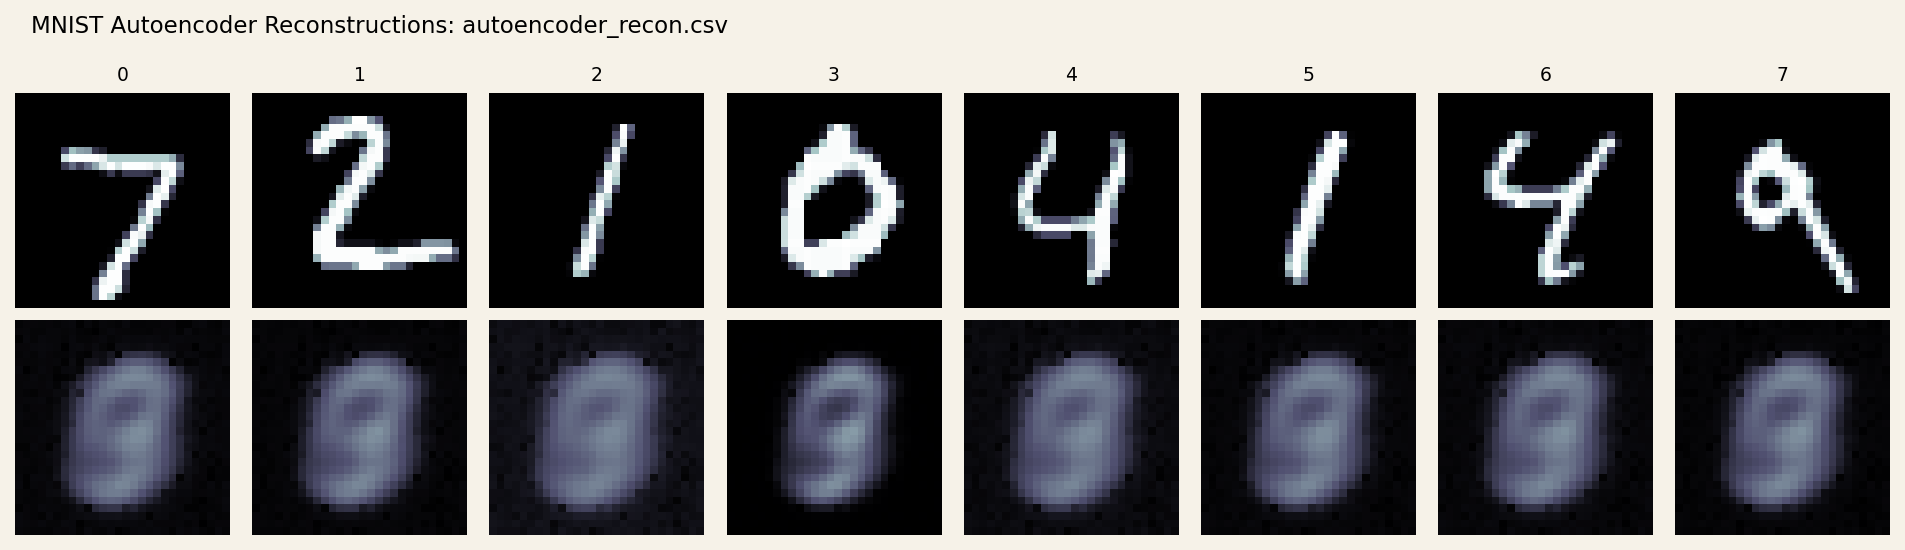
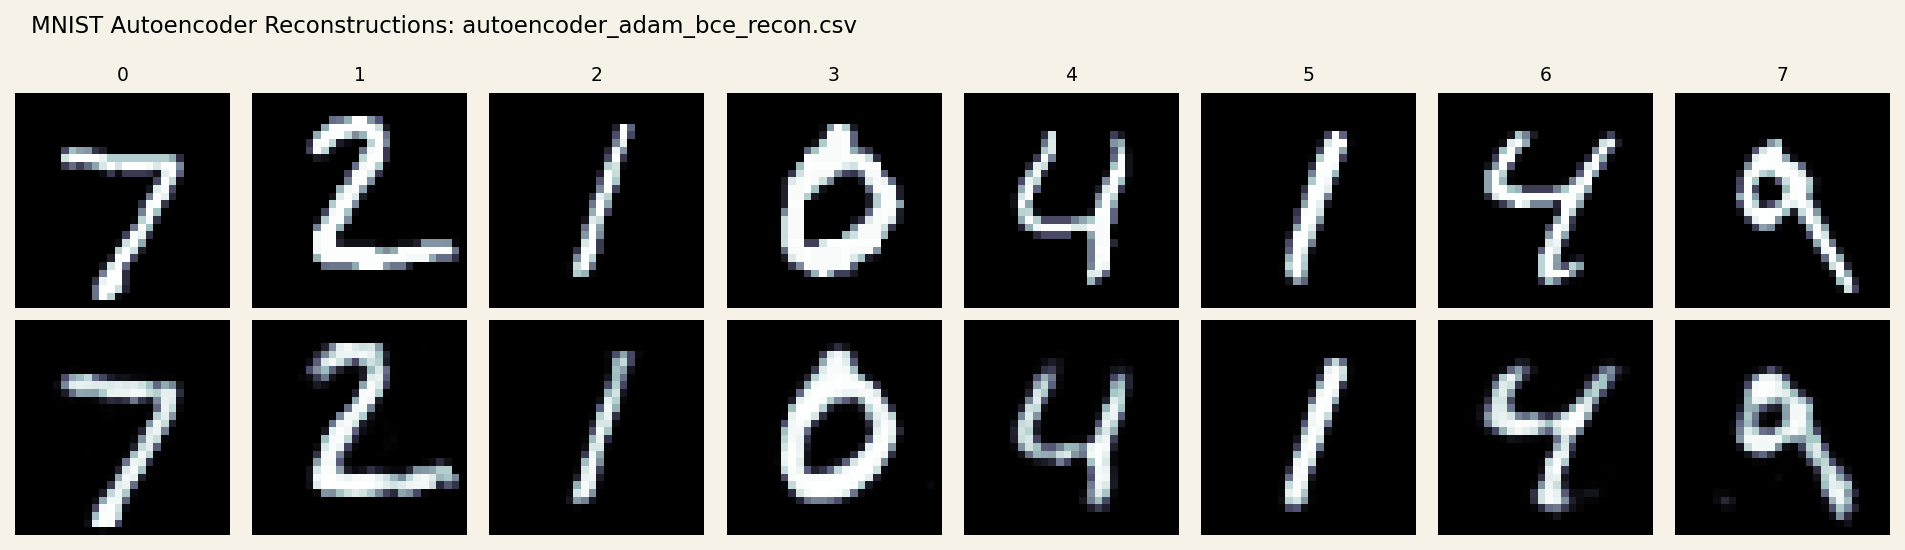
binary_cross_entropy: autoencoder --opt=adam --loss=bce

diff --git a/autoencoder.c b/autoencoder.c
@@ -8,17 +8,28 @@
  * - Flattens each 28x28 digit into a 784-wide input vector
  * - Encodes through a hidden layer and low-dimensional latent bottleneck
  * - Decodes back to pixel space with a sigmoid reconstruction head
- * - Trains with mean-squared reconstruction loss
+ * - Trains with MSE or BCE-style reconstruction loss
  *
  * Usage:
  *   ./autoencoder [--epochs=N] [--batch=N] [--hidden=N]
- *                 [--latent=N] [--lr=FLOAT] [--log=PATH]
+ *                 [--latent=N] [--opt=momentum|adam]
+ *                 [--loss=mse|bce] [--lr=FLOAT] [--log=PATH]
  *                 [--recon=PATH]
  */
 #include <sys/time.h>
 #include <stdio.h>
 #include <stdlib.h>
 #include <string.h>
+
+typedef enum {
+    OPT_MOMENTUM = 0,
+    OPT_ADAM
+} OptimizerKind;
+
+typedef enum {
+    LOSS_MSE = 0,
+    LOSS_BCE
+} AutoencoderLossKind;
 
 /* Architecture:
  * input [batch, 784]
@@ -42,6 +53,9 @@ typedef struct {
     Tensor *b_out;
     Tensor *params[8];
     Tensor *velocity[8];
+    Tensor *adam_m1[8];
+    Tensor *adam_m2[8];
+    int adam_step;
     Tensor *tmp_enc1_lin;
     Tensor *tmp_enc1_bias;
     Tensor *tmp_enc1_act;
@@ -61,6 +75,8 @@ typedef struct {
     int batch;
     int hidden;
     int latent;
+    OptimizerKind opt_kind;
+    AutoencoderLossKind loss_kind;
     float lr;
     const char *log_path;
     const char *recon_path;
@@ -74,12 +90,31 @@ static float autoencoder_train_epoch(MnistAutoencoder *model,
                                      const MnistSet *train,
                                      const int *indices,
                                      float *batch_images,
-                                     float lr);
-static float autoencoder_eval(MnistAutoencoder *model, const MnistSet *ds, float *batch_images);
+                                     const AutoencoderOptions *opt);
+static float autoencoder_eval(MnistAutoencoder *model,
+                              const MnistSet *ds,
+                              float *batch_images,
+                              AutoencoderLossKind loss_kind);
 static void autoencoder_save_reconstructions(MnistAutoencoder *model,
                                              const MnistSet *ds,
                                              const char *path,
                                              int n_examples);
+
+static const char *optimizer_name(OptimizerKind kind) {
+    switch (kind) {
+        case OPT_MOMENTUM: return "momentum";
+        case OPT_ADAM: return "adam";
+    }
+    return "unknown";
+}
+
+static const char *loss_name(AutoencoderLossKind kind) {
+    switch (kind) {
+        case LOSS_MSE: return "mse";
+        case LOSS_BCE: return "bce";
+    }
+    return "unknown";
+}
 
 static void die(const char *msg) {
     fprintf(stderr, "%s\n", msg);
@@ -100,6 +135,8 @@ static void print_usage(const char *prog) {
     printf("  --batch=N\n");
     printf("  --hidden=N\n");
     printf("  --latent=N\n");
+    printf("  --opt=momentum|adam\n");
+    printf("  --loss=mse|bce\n");
     printf("  --lr=FLOAT\n");
     printf("  --log=PATH\n");
     printf("  --recon=PATH\n");
@@ -110,6 +147,8 @@ static void parse_args(int argc, char **argv, AutoencoderOptions *opt) {
     opt->batch = 32;
     opt->hidden = 128;
     opt->latent = 32;
+    opt->opt_kind = OPT_MOMENTUM;
+    opt->loss_kind = LOSS_MSE;
     opt->lr = 0.01f;
     opt->log_path = "out/autoencoder_training_log.csv";
     opt->recon_path = "out/autoencoder_recon.csv";
@@ -128,6 +167,18 @@ static void parse_args(int argc, char **argv, AutoencoderOptions *opt) {
             continue;
         } else if (sscanf(arg, "--latent=%d", &opt->latent) == 1) {
             continue;
+        } else if (strcmp(arg, "--opt=momentum") == 0) {
+            opt->opt_kind = OPT_MOMENTUM;
+            continue;
+        } else if (strcmp(arg, "--opt=adam") == 0) {
+            opt->opt_kind = OPT_ADAM;
+            continue;
+        } else if (strcmp(arg, "--loss=mse") == 0) {
+            opt->loss_kind = LOSS_MSE;
+            continue;
+        } else if (strcmp(arg, "--loss=bce") == 0) {
+            opt->loss_kind = LOSS_BCE;
+            continue;
         } else if (sscanf(arg, "--lr=%f", &opt->lr) == 1) {
             continue;
         } else if (strncmp(arg, "--log=", 6) == 0) {
@@ -144,7 +195,6 @@ static void print_architecture_summary(FILE *out, const MnistAutoencoder *model)
     fprintf(out, "arch: input=784 hidden=%d latent=%d\n", model->hidden, model->latent);
     fprintf(out, "arch: encoder=784->%d->%d relu\n", model->hidden, model->latent);
     fprintf(out, "arch: decoder=%d->%d->784 relu+sigmoid\n", model->latent, model->hidden);
-    fprintf(out, "arch: loss=mse over pixel reconstructions\n");
 }
 
 static void autoencoder_clear_forward_cache(MnistAutoencoder *model) {
@@ -217,10 +267,10 @@ static void autoencoder_init(MnistAutoencoder *model, const AutoencoderOptions *
 
     for (int i = 0; i < 8; i++) {
         model->velocity[i] = tensor_create(model->params[i]->rows, model->params[i]->cols, 0);
-        if (!model->velocity[i]) {
-            die("autoencoder velocity allocation failed");
-        }
+        model->adam_m1[i] = tensor_create(model->params[i]->rows, model->params[i]->cols, 0);
+        model->adam_m2[i] = tensor_create(model->params[i]->rows, model->params[i]->cols, 0);
     }
+    model->adam_step = 0;
 }
 
 static void autoencoder_free(MnistAutoencoder *model) {
@@ -231,8 +281,17 @@ static void autoencoder_free(MnistAutoencoder *model) {
     for (int i = 0; i < 8; i++) {
         tensor_free(model->params[i]);
         tensor_free(model->velocity[i]);
+        tensor_free(model->adam_m1[i]);
+        tensor_free(model->adam_m2[i]);
     }
     memset(model, 0, sizeof(*model));
+}
+
+static Tensor *autoencoder_recon_loss(Tensor *recon, Tensor *target, AutoencoderLossKind loss_kind) {
+    if (loss_kind == LOSS_BCE) {
+        return tensor_binary_cross_entropy(recon, target);
+    }
+    return tensor_mse_loss(recon, target);
 }
 
 static Tensor *autoencoder_forward(MnistAutoencoder *model, Tensor *x) {
@@ -255,7 +314,7 @@ static float autoencoder_train_epoch(MnistAutoencoder *model,
                                      const MnistSet *train,
                                      const int *indices,
                                      float *batch_images,
-                                     float lr) {
+                                     const AutoencoderOptions *opt) {
     int n_train = (train->n / model->batch) * model->batch;
     float loss_sum = 0.0f;
     int loss_count = 0;
@@ -268,10 +327,20 @@ static float autoencoder_train_epoch(MnistAutoencoder *model,
         mnist_gather_batch_images(train, indices, i, model->batch, batch_images);
         x = tensor_from_array(model->batch, MNIST_PIXELS, batch_images, 0);
         recon = autoencoder_forward(model, x);
-        loss = tensor_mse_loss(recon, x);
+        loss = autoencoder_recon_loss(recon, x, opt->loss_kind);
 
         tensor_backward(loss);
-        tensor_sgd_momentum_step(model->params, model->velocity, 8, lr, 0.9f);
+        if (opt->opt_kind == OPT_ADAM) {
+            TensorAdamOptions adam = {0};
+            adam.lr = opt->lr;
+            adam.beta1 = 0.9f;
+            adam.beta2 = 0.999f;
+            adam.eps = 1e-8f;
+            adam.timestep = ++model->adam_step;
+            tensor_adam_step(model->params, model->adam_m1, model->adam_m2, 8, &adam);
+        } else {
+            tensor_sgd_momentum_step(model->params, model->velocity, 8, opt->lr, 0.9f);
+        }
 
         loss_sum += loss->data[0];
         loss_count++;
@@ -284,7 +353,10 @@ static float autoencoder_train_epoch(MnistAutoencoder *model,
     return loss_count > 0 ? loss_sum / (float)loss_count : 0.0f;
 }
 
-static float autoencoder_eval(MnistAutoencoder *model, const MnistSet *ds, float *batch_images) {
+static float autoencoder_eval(MnistAutoencoder *model,
+                              const MnistSet *ds,
+                              float *batch_images,
+                              AutoencoderLossKind loss_kind) {
     int n_eval = (ds->n / model->batch) * model->batch;
     float loss_sum = 0.0f;
     int loss_count = 0;
@@ -299,7 +371,7 @@ static float autoencoder_eval(MnistAutoencoder *model, const MnistSet *ds, float
                sizeof(float) * (size_t)model->batch * MNIST_PIXELS);
         x = tensor_from_array(model->batch, MNIST_PIXELS, batch_images, 0);
         recon = autoencoder_forward(model, x);
-        loss = tensor_mse_loss(recon, x);
+        loss = autoencoder_recon_loss(recon, x, loss_kind);
 
         loss_sum += loss->data[0];
         loss_count++;
@@ -398,7 +470,12 @@ int main(int argc, char **argv) {
 
     printf("loaded MNIST train=%d test=%d batch=%d\n", train.n, test.n, opt.batch);
     print_architecture_summary(stdout, &model);
-    printf("opt: epochs=%d lr=%.4f recon=%s\n", opt.epochs, opt.lr, opt.recon_path);
+    printf("opt: epochs=%d lr=%.4f opt=%s loss=%s recon=%s\n",
+           opt.epochs,
+           opt.lr,
+           optimizer_name(opt.opt_kind),
+           loss_name(opt.loss_kind),
+           opt.recon_path);
 
     logf = fopen(opt.log_path, "w");
     if (!logf) {
@@ -413,8 +490,8 @@ int main(int argc, char **argv) {
         double elapsed;
 
         mnist_shuffle_indices(indices, train.n, &seed);
-        train_loss = autoencoder_train_epoch(&model, &train, indices, batch_images, opt.lr);
-        eval_loss = autoencoder_eval(&model, &test, batch_images);
+        train_loss = autoencoder_train_epoch(&model, &train, indices, batch_images, &opt);
+        eval_loss = autoencoder_eval(&model, &test, batch_images, opt.loss_kind);
         elapsed = now_seconds() - start_time;
 
         printf("epoch %3d train_loss %.6f eval_loss %.6f elapsed %.1fs\n",

diff --git a/tensor.c b/tensor.c
@@ -32,6 +32,7 @@ enum {
     OP_SOFTMAX,
     OP_LAYERNORM,
     OP_MSE,
+    OP_BINARY_CROSS_ENTROPY,
     OP_CROSS_ENTROPY
 };
 
@@ -1408,6 +1409,57 @@ static void backward_cross_entropy(Tensor *out) {
             target->grad[i] += g * (-logf(p));
         }
     }
+}
+
+static void backward_binary_cross_entropy(Tensor *out) {
+    const float eps = 1e-6f;
+    Tensor *pred = out->parents[0];
+    Tensor *target = out->parents[1];
+    int n = tensor_numel(pred);
+    float g = out->grad[0] / (float)n;
+
+    if (pred->requires_grad) {
+        ensure_grad(pred);
+        for (int i = 0; i < n; i++) {
+            float p = pred->data[i];
+            if (p < eps) p = eps;
+            if (p > 1.0f - eps) p = 1.0f - eps;
+            pred->grad[i] += g * ((1.0f - target->data[i]) / (1.0f - p) - target->data[i] / p);
+        }
+    }
+    if (target->requires_grad) {
+        ensure_grad(target);
+        for (int i = 0; i < n; i++) {
+            float p = pred->data[i];
+            if (p < eps) p = eps;
+            if (p > 1.0f - eps) p = 1.0f - eps;
+            target->grad[i] += g * (logf(1.0f - p) - logf(p));
+        }
+    }
+}
+
+Tensor *tensor_binary_cross_entropy(Tensor *pred_probs, Tensor *target_probs) {
+    const float eps = 1e-6f;
+    int n;
+    float acc = 0.0f;
+    Tensor *parents[2] = {pred_probs, target_probs};
+    int req;
+    Tensor *out;
+
+    ensure_same_shape(pred_probs, target_probs, "tensor_binary_cross_entropy: shape mismatch");
+    req = infer_requires_grad(parents, 2);
+    out = tensor_new_op(1, 1, req, OP_BINARY_CROSS_ENTROPY, parents, 2, backward_binary_cross_entropy);
+
+    n = tensor_numel(pred_probs);
+    for (int i = 0; i < n; i++) {
+        float p = pred_probs->data[i];
+        float y = target_probs->data[i];
+        if (p < eps) p = eps;
+        if (p > 1.0f - eps) p = 1.0f - eps;
+        acc += -(y * logf(p) + (1.0f - y) * logf(1.0f - p));
+    }
+    out->data[0] = acc / (float)n;
+    return out;
 }
 
 Tensor *tensor_cross_entropy(Tensor *pred_probs, Tensor *target_probs) {

diff --git a/tensor_test.c b/tensor_test.c
@@ -324,6 +324,25 @@ static int test_softmax_cross_entropy(void) {
     return 0;
 }
 
+static int test_binary_cross_entropy(void) {
+    float pv[] = {0.8f, 0.2f};
+    float tv[] = {1.0f, 0.0f};
+    Tensor *pred = tensor_from_array(1, 2, pv, 1);
+    Tensor *target = tensor_from_array(1, 2, tv, 0);
+    Tensor *loss = tensor_binary_cross_entropy(pred, target);
+
+    tensor_backward(loss);
+
+    ASSERT_CLOSE(loss->data[0], (-(logf(0.8f) + logf(0.8f))) / 2.0f, 1e-6f);
+    ASSERT_CLOSE(pred->grad[0], -0.625f, 1e-5f);
+    ASSERT_CLOSE(pred->grad[1], 0.625f, 1e-5f);
+
+    tensor_free(pred);
+    tensor_free(target);
+    tensor_free(loss);
+    return 0;
+}
+
 static int test_pow_sqrt(void) {
     float xv[] = {2.0f};
     float tv[] = {0.0f};
@@ -580,6 +599,7 @@ int main(void) {
     if (test_pow_sqrt() != 0) return 1;
     if (test_layernorm() != 0) return 1;
     if (test_softmax_cross_entropy() != 0) return 1;
+    if (test_binary_cross_entropy() != 0) return 1;
     if (test_cmp_ops() != 0) return 1;
     if (test_backward_mse_matmul() != 0) return 1;
     if (test_adam_step() != 0) return 1;

diff --git a/tensor.h b/tensor.h
@@ -86,6 +86,12 @@ Tensor *tensor_softmax(Tensor *x);
 Tensor *tensor_layernorm(Tensor *x, Tensor *gamma, Tensor *beta, float eps);
 
 Tensor *tensor_mse_loss(Tensor *pred, Tensor *target);
+/* Binary cross-entropy over probability inputs in [0, 1].
+ * References:
+ * - https://docs.pytorch.org/docs/stable/generated/torch.nn.BCELoss.html
+ * - https://docs.pytorch.org/docs/stable/generated/torch.nn.functional.binary_cross_entropy.html
+ */
+Tensor *tensor_binary_cross_entropy(Tensor *pred_probs, Tensor *target_probs);
 Tensor *tensor_cross_entropy(Tensor *pred_probs, Tensor *target_probs);
 
 Tensor *tensor_forward(Tensor *output);

diff --git a/TODO.md b/TODO.md
@@ -9,20 +9,17 @@
 
 ## Seq2Seq
 
-- switch eval to a fixed held-out synthetic set so `eval_tok` and `eval_seq`
-  are less noisy across checkpoints and runs
-- compare plain RNN vs attention on the same fixed eval set
+- make Adam the default optimizer for seq2seq experiments if longer runs keep
+  looking better than momentum
+- compare plain RNN vs attention on the same fixed eval set with Adam
 - try a learned attention scoring layer if dot attention plateaus
+- add a cleaner qualitative eval panel with a fixed set of decode examples
 
 ## MNIST Shared Infra
 
-- consider pulling the IDX reader / MNIST dataset logic into a shared `mnist.h`
-  + `mnist.c` loader used by classifier and autoencoder demos
-
 ## Optimizers
 
-- add an Adam optimizer to the tensor library
-- compare SGD + momentum vs Adam on MNIST, seq2seq, and autoencoder demos
+- compare SGD + momentum vs Adam on the autoencoder more systematically
 
 ## Language Demos
 

diff --git a/docs/autoencoder.md b/docs/autoencoder.md
@@ -66,3 +66,19 @@ This first pass is intentionally small and readable:
 
 That makes it a good baseline for future comparison against deeper or more
 structured autoencoder variants.
+
+## Experiment Log
+
+### wider MLP + Adam + BCE
+
+- config:
+  `epochs=20 batch=32 hidden=256 latent=64 opt=adam loss=bce lr=0.001`
+- final result:
+  `train_loss=0.076851 eval_loss=0.079419`
+- artifact:
+  [autoencoder_adam_bce_recon.png](/Users/alex/Code/nanotensor/out/autoencoder_adam_bce_recon.png)
+- notes:
+  this is a clear qualitative improvement over the earlier MSE baseline that
+  collapsed toward a blurry average digit. Reconstructions are still soft, but
+  they now track the input class and stroke structure instead of converging on
+  a single prototype.
